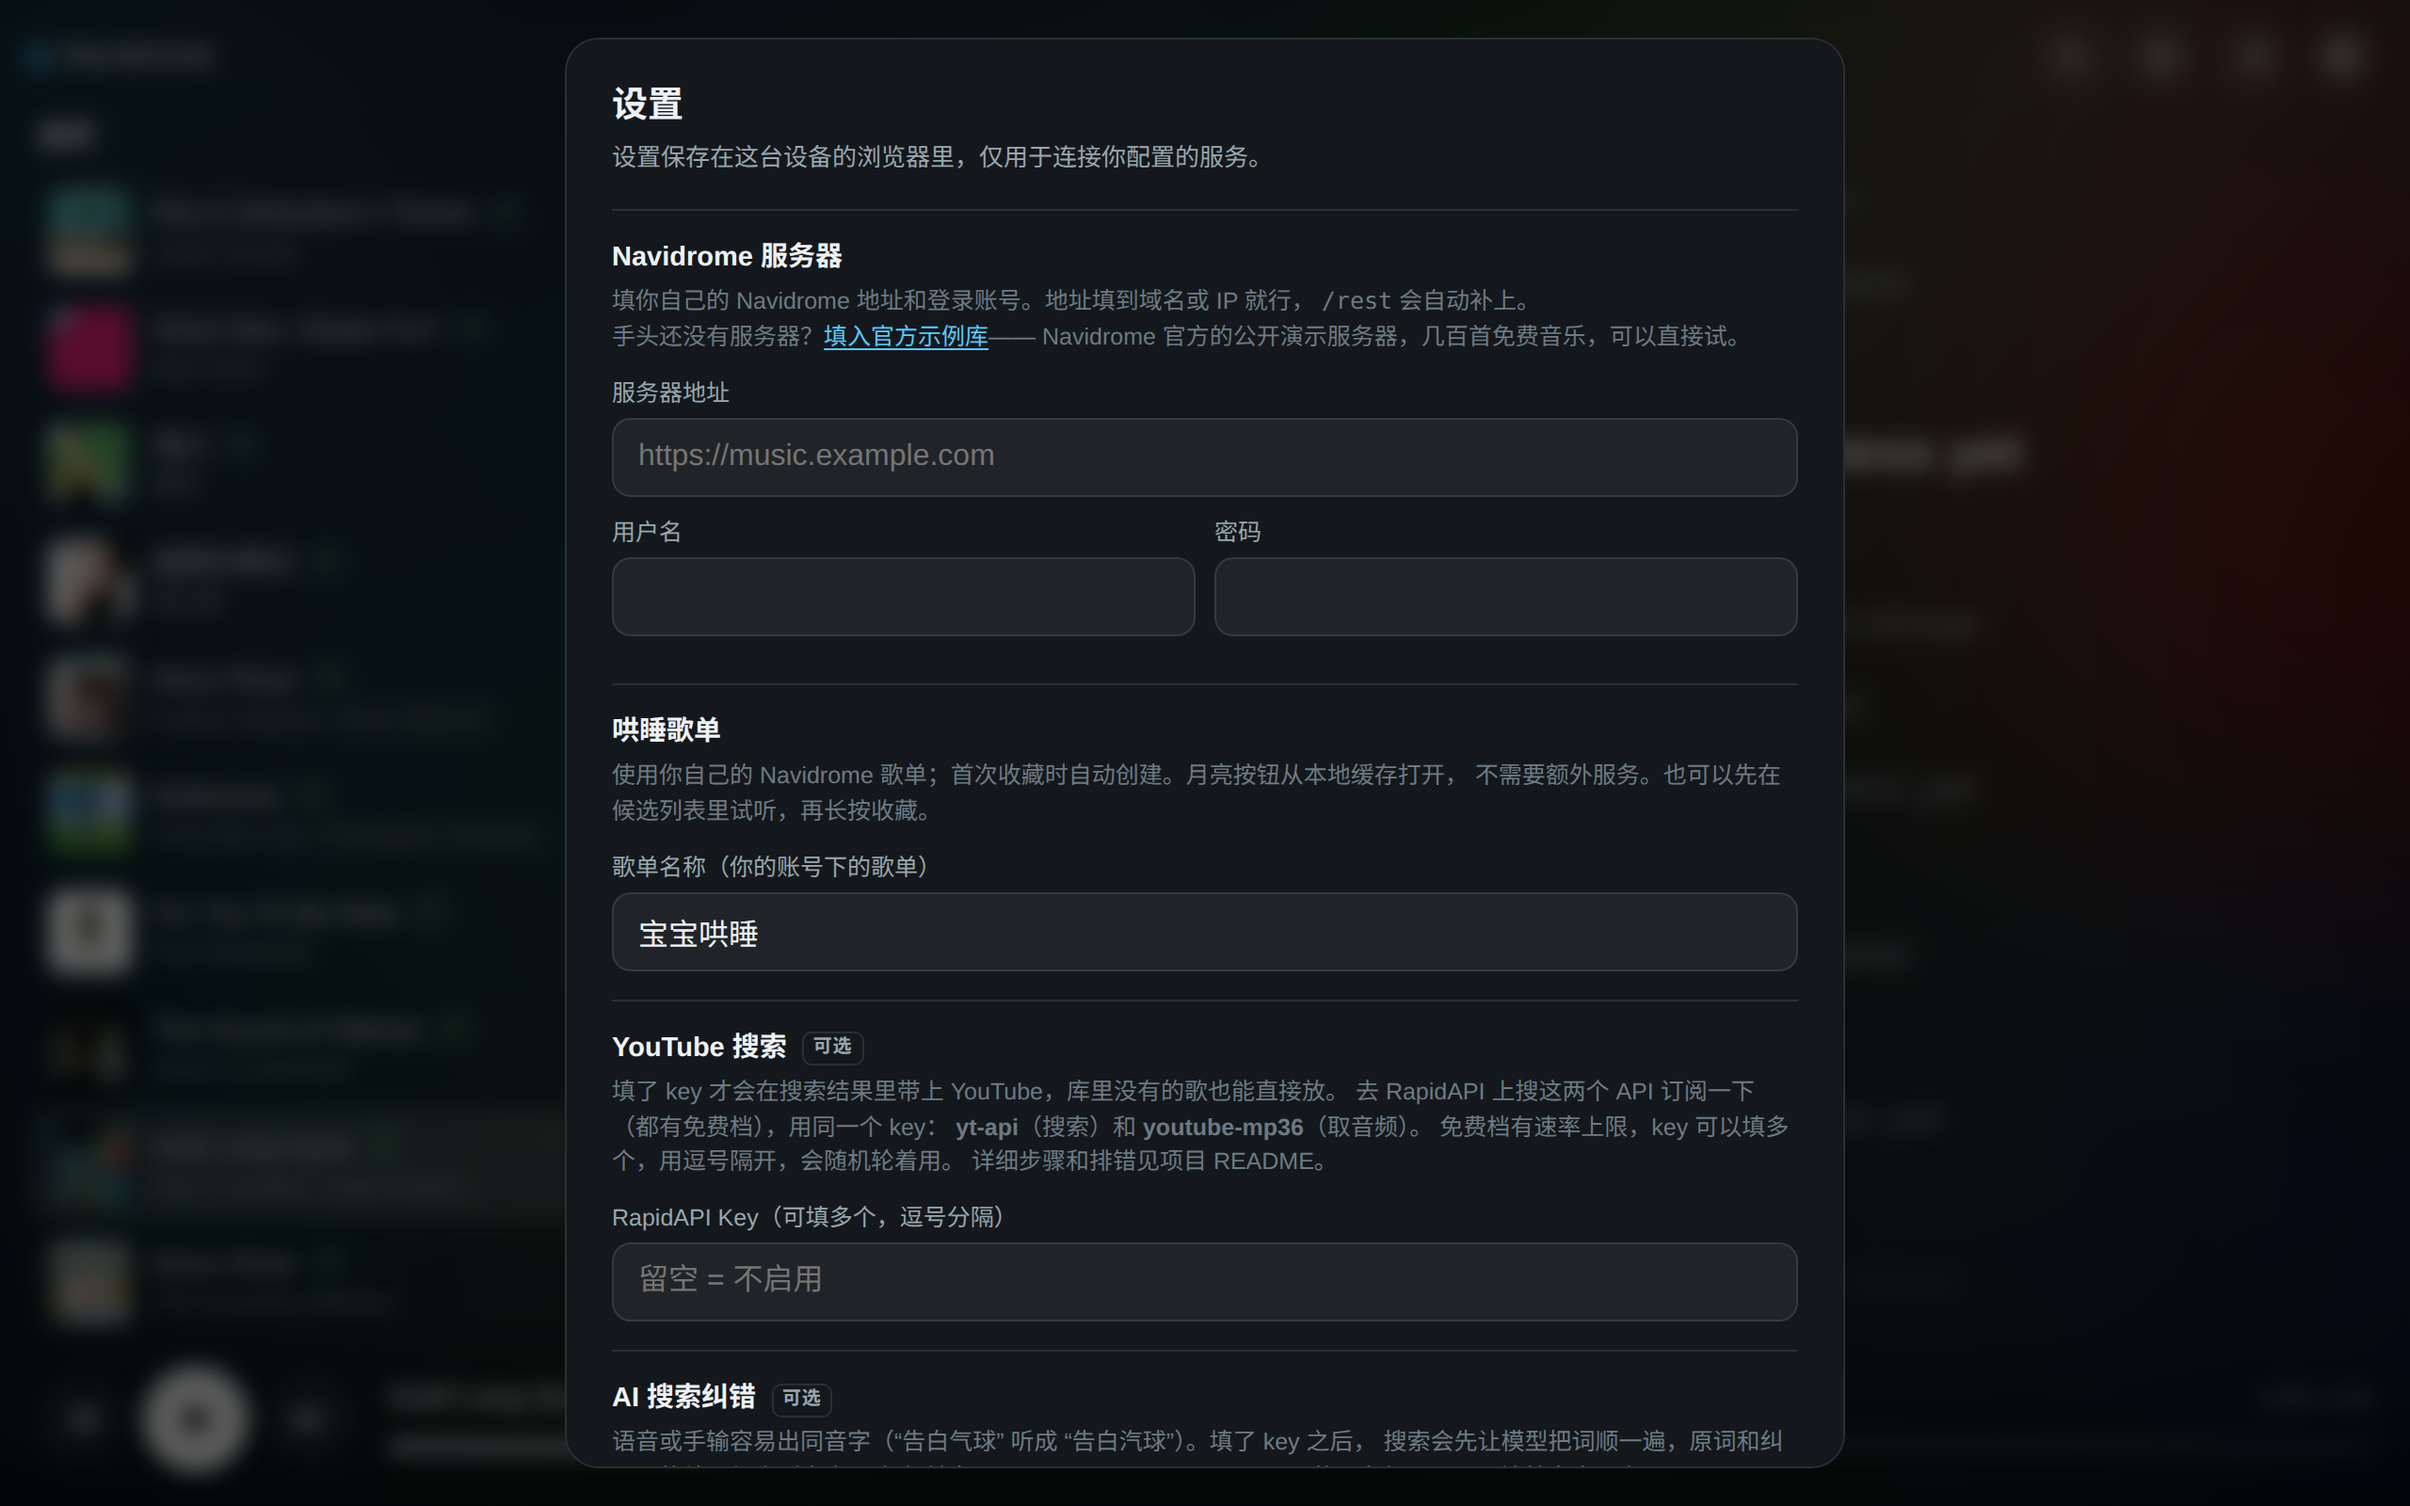
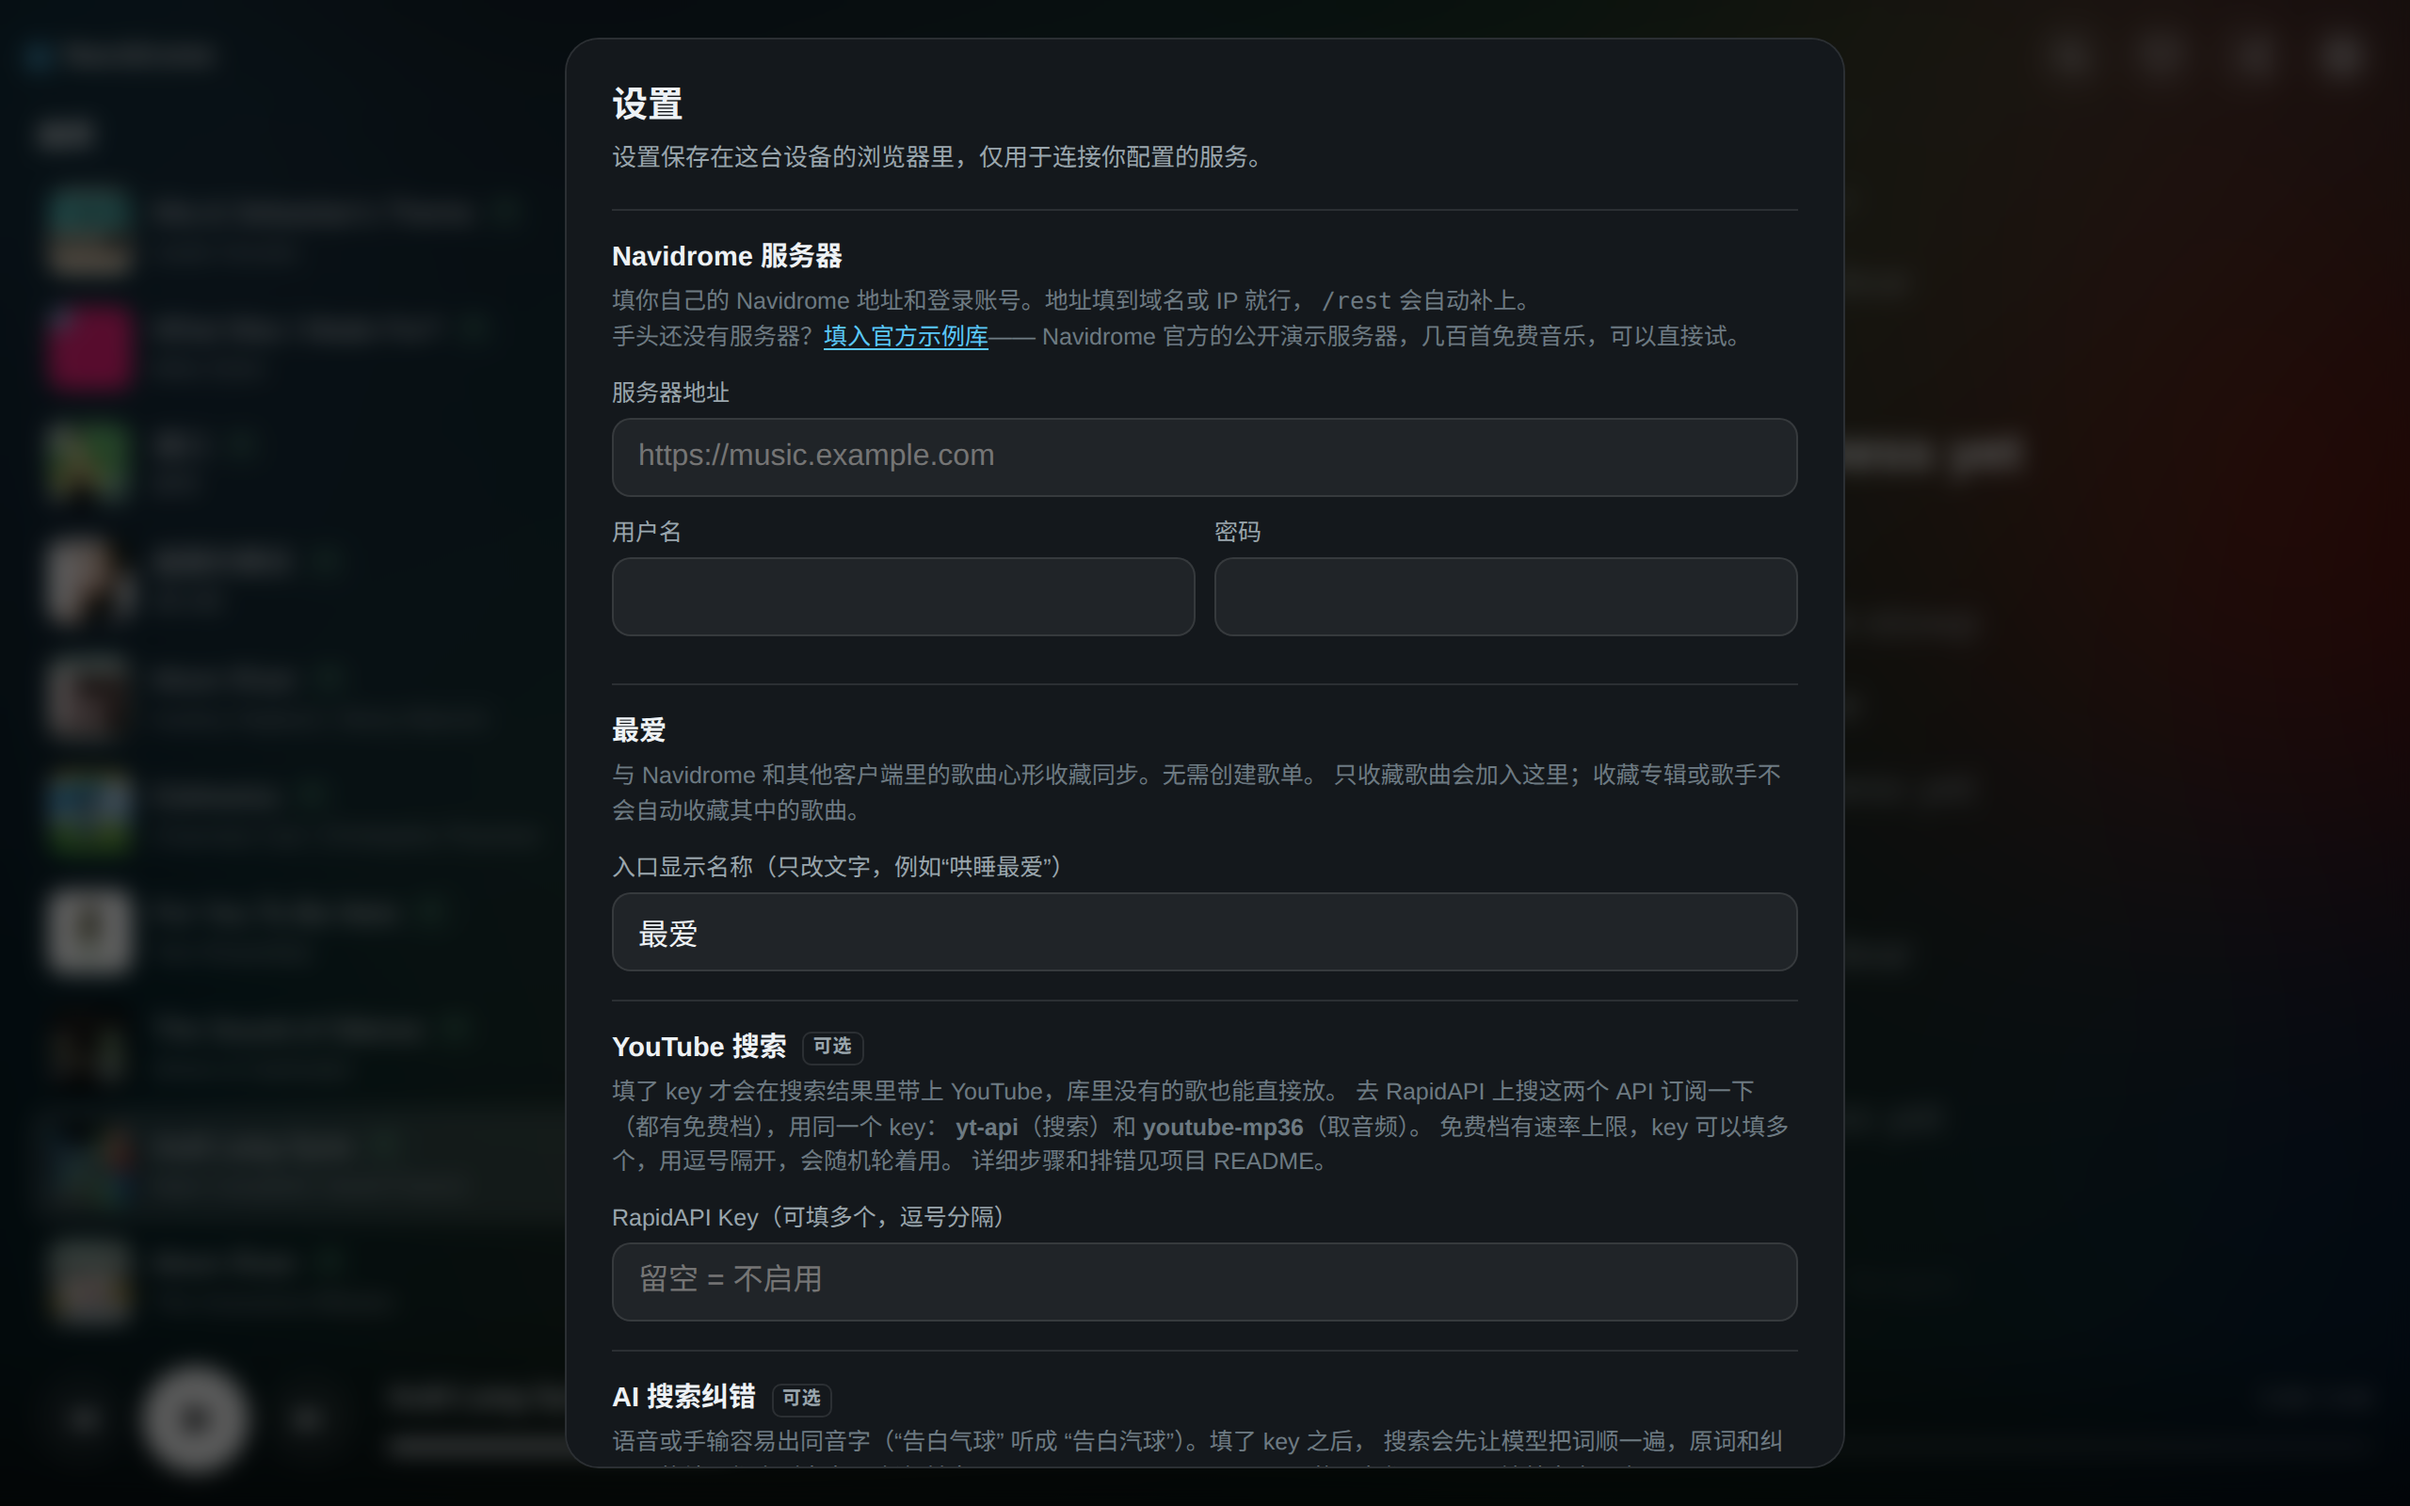
Document native favorites playlists and update heart screenshots

Changed region(s): [[0.25, 0.4688, 0.75, 0.625]]

diff --git a/README.md b/README.md
@@ -80,7 +80,7 @@ Open the settings panel with the gear icon in the top-right corner.
 ![Settings](docs/settings.png)
 
 Settings are stored in `localStorage` on the device that entered them. This page has no
-separate account or telemetry. Play counts and playlist edits are sent to your Navidrome
+separate account or telemetry. Play counts and favorite changes are sent to your Navidrome
 server so that its other clients can see them too.
 
 ### Navidrome (required)
@@ -261,6 +261,23 @@ or another name all open the same account's starred songs. The label never choos
 or filters music. Each account has one starred-song collection; use ordinary Navidrome
 playlists for independently managed bedtime, nursery or pop collections.
 
+**Also show favorites as a playlist in Navidrome.** Its native smart playlists can mirror
+track hearts. Save this as `Favorites.nsp` in your music folder and run a library scan:
+
+```json
+{
+  "name": "Favorites",
+  "all": [{"is": {"loved": true}}],
+  "sort": "playCount",
+  "order": "desc"
+}
+```
+
+Set its owner to the account whose favorites you want; new imports belong to the first admin
+by default. The playlist refreshes on access, so star or unstar songs to change its contents.
+This client still reads native stars directly and does not require the playlist.
+See [Navidrome smart playlists](https://www.navidrome.org/docs/usage/features/smart-playlists/).
+
 Metadata is cached by server and username, independently of the label. Opening the heart
 reads the cache immediately; a first visit waits for the initial background sync. Refreshes
 run every five minutes and on returning after at least a minute. Failed reads preserve the
@@ -414,8 +431,8 @@ Until then, the on-screen search box covers the same ground.
 
 ## Private deployments and the GitHub version
 
-Both use the same native favorite source: `getStarred2.song` and `star/unstar`. The public
-default label is “最爱”; a private deployment may display “哄睡最爱”. Labels and connection
+Both use the same native favorite source: `getStarred2.song` and `star/unstar`. The
+default label in both deployments is “最爱”. Labels and connection
 settings do not change the source. This repository contains no private songs, accounts or
 playlist IDs, and installs no original-file deletion service. See the [development contract](docs/development.md).
 

diff --git a/README.zh-CN.md b/README.zh-CN.md
@@ -216,6 +216,22 @@ YouTube 条目没有歌词，此时右侧显示封面与标题。
 也不会改变收藏范围。每个账号只有一份歌曲收藏，收藏普通歌曲也会进入这个集合。若需要互相独立的
 哄睡、儿歌和流行歌曲列表，在 Navidrome 建立普通歌单即可。
 
+**在 Navidrome 的歌单列表里也显示最爱。** 官方智能歌单可以自动汇总歌曲心形。
+将下面内容保存为音乐目录中的 `最爱.nsp`，然后扫描曲库：
+
+```json
+{
+  "name": "最爱",
+  "all": [{"is": {"loved": true}}],
+  "sort": "playCount",
+  "order": "desc"
+}
+```
+
+歌单所有者应为需要汇总收藏的账号；首次导入默认归第一个管理员所有。
+访问时自动刷新，内容随歌曲收藏或取消收藏变化。本客户端仍直接读取原生收藏，不依赖这个歌单。
+详见 [Navidrome 智能歌单文档](https://www.navidrome.org/docs/usage/features/smart-playlists/)。
+
 缓存按服务器和用户名隔离，与入口显示名称无关。点击心形直接打开本机快照；首次使用先完成后台同步。
 每五分钟同步一次，回到页面且距离上次同步超过一分钟时也刷新；读取失败保留上次快照。
 缓存只有歌曲信息，封面和音频仍从 Navidrome 加载。更换账号不会沿用上一个账号的收藏。
@@ -319,7 +335,7 @@ Navidrome 支持内嵌歌词，也支持与音频文件同目录的 `.lrc`。带
 
 ## 本地部署与 GitHub 版
 
-收藏机制完全相同：`getStarred2.song` + `star/unstar`。公开版默认入口叫“最爱”，家庭部署可显示“哄睡最爱”，两者只差显示名与连接配置。公开版不附带家庭歌曲、歌单 ID 或账号，删除原始文件仍需要音乐库的管理工具。详见[开发约定与版本差异](docs/development.zh-CN.md)。
+收藏机制完全相同：`getStarred2.song` + `star/unstar`，两端默认入口都叫“最爱”。入口显示名可以自行修改，连接配置按部署设置。公开版不附带家庭歌曲、歌单 ID 或账号，删除原始文件仍需要音乐库的管理工具。详见[开发约定与版本差异](docs/development.zh-CN.md)。
 
 ## 开发计划
 

diff --git a/docs/development.zh-CN.md b/docs/development.zh-CN.md
@@ -7,11 +7,11 @@
 | --- | --- | --- |
 | 最爱读取 | `getStarred2.song` | 同一个接口、同一个账号收藏 |
 | 加入 / 取消 | `star(id)` / `unstar(id)`，随后 `getSong` 确认 | 受鉴权的私有操作服务调用相同接口并确认 |
-| 入口名称 | `favoriteName`，默认“最爱” | “哄睡最爱” |
+| 入口名称 | `favoriteName`，默认“最爱” | “最爱” |
 | 账号来源 | 用户在本机设置 | 家庭服务配置 |
 | 元数据缓存 | 服务器 + 用户名；不含显示名 | 同样隔离，可附带受登录保护的首次快照 |
 | 删除原文件 | 不支持 | 私有服务已有能力，必须另行确认 |
-| 外部音源 | 用户自行启用的可选插件 | 家庭自己的 HE 搜索后端 |
+| 外部音源 | 用户自行启用的可选插件 | 家庭自己的搜索后端 |
 
 普通歌单是独立对象；不能把 `updatePlaylist` 当作 Favorite 的实现。改显示名不查同名歌单，
 不自动建立 `宝宝哄睡` 或 `Favorites`。心形只对应歌曲，不能把收藏专辑展开进最爱。
